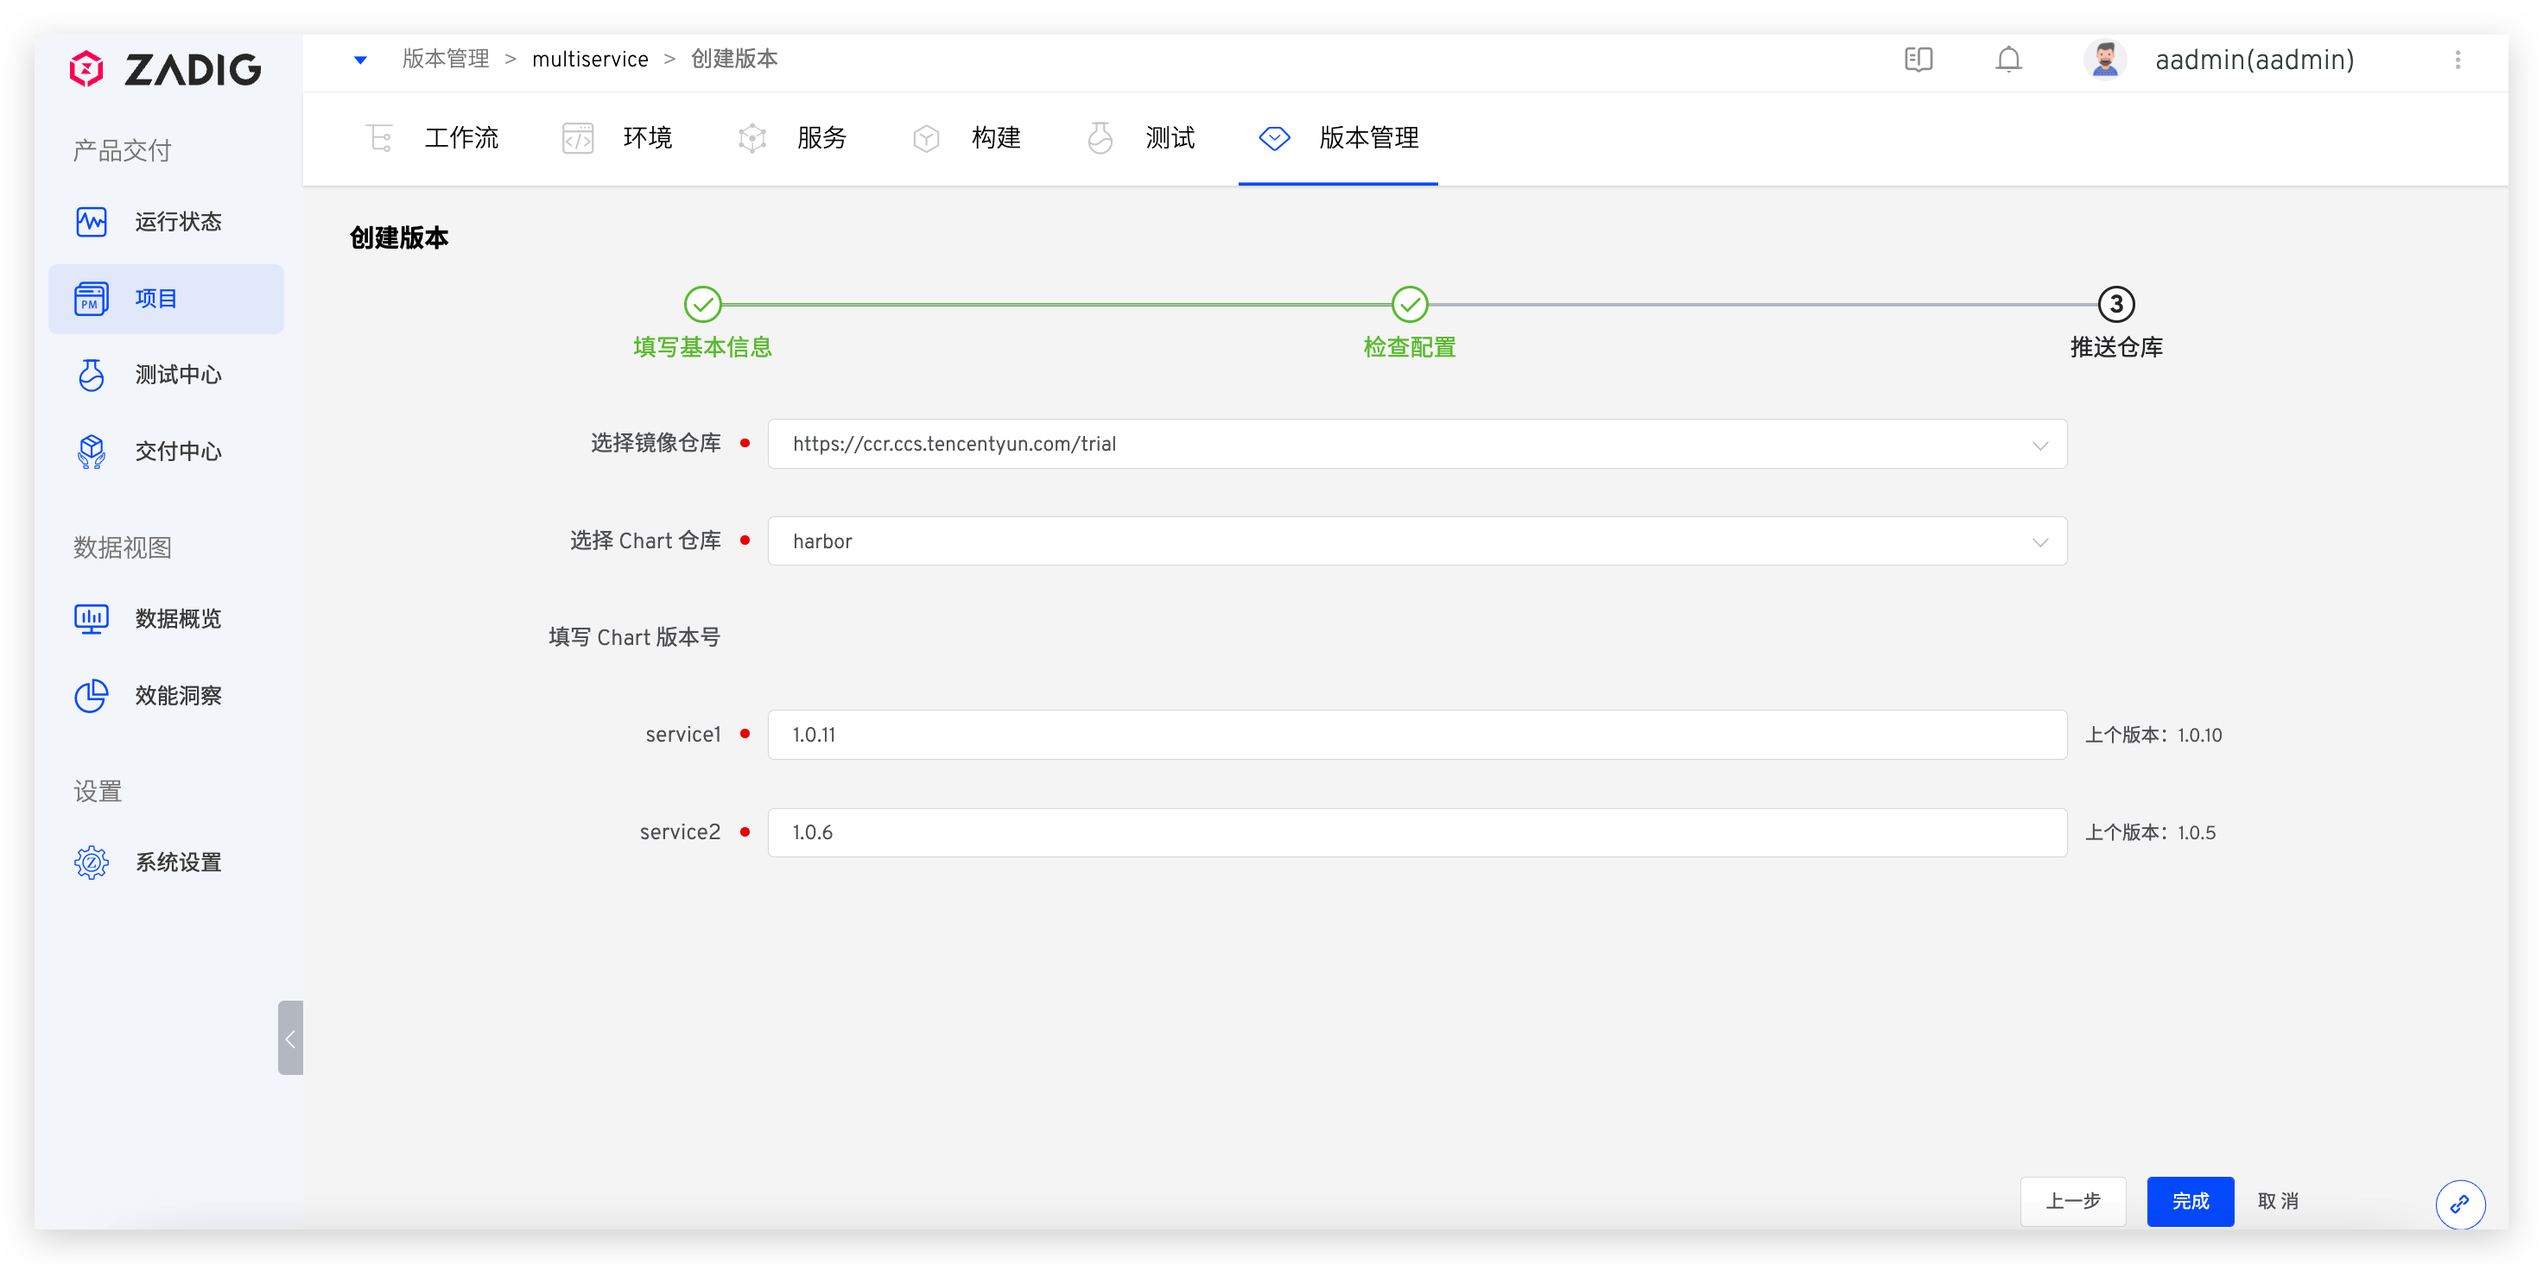
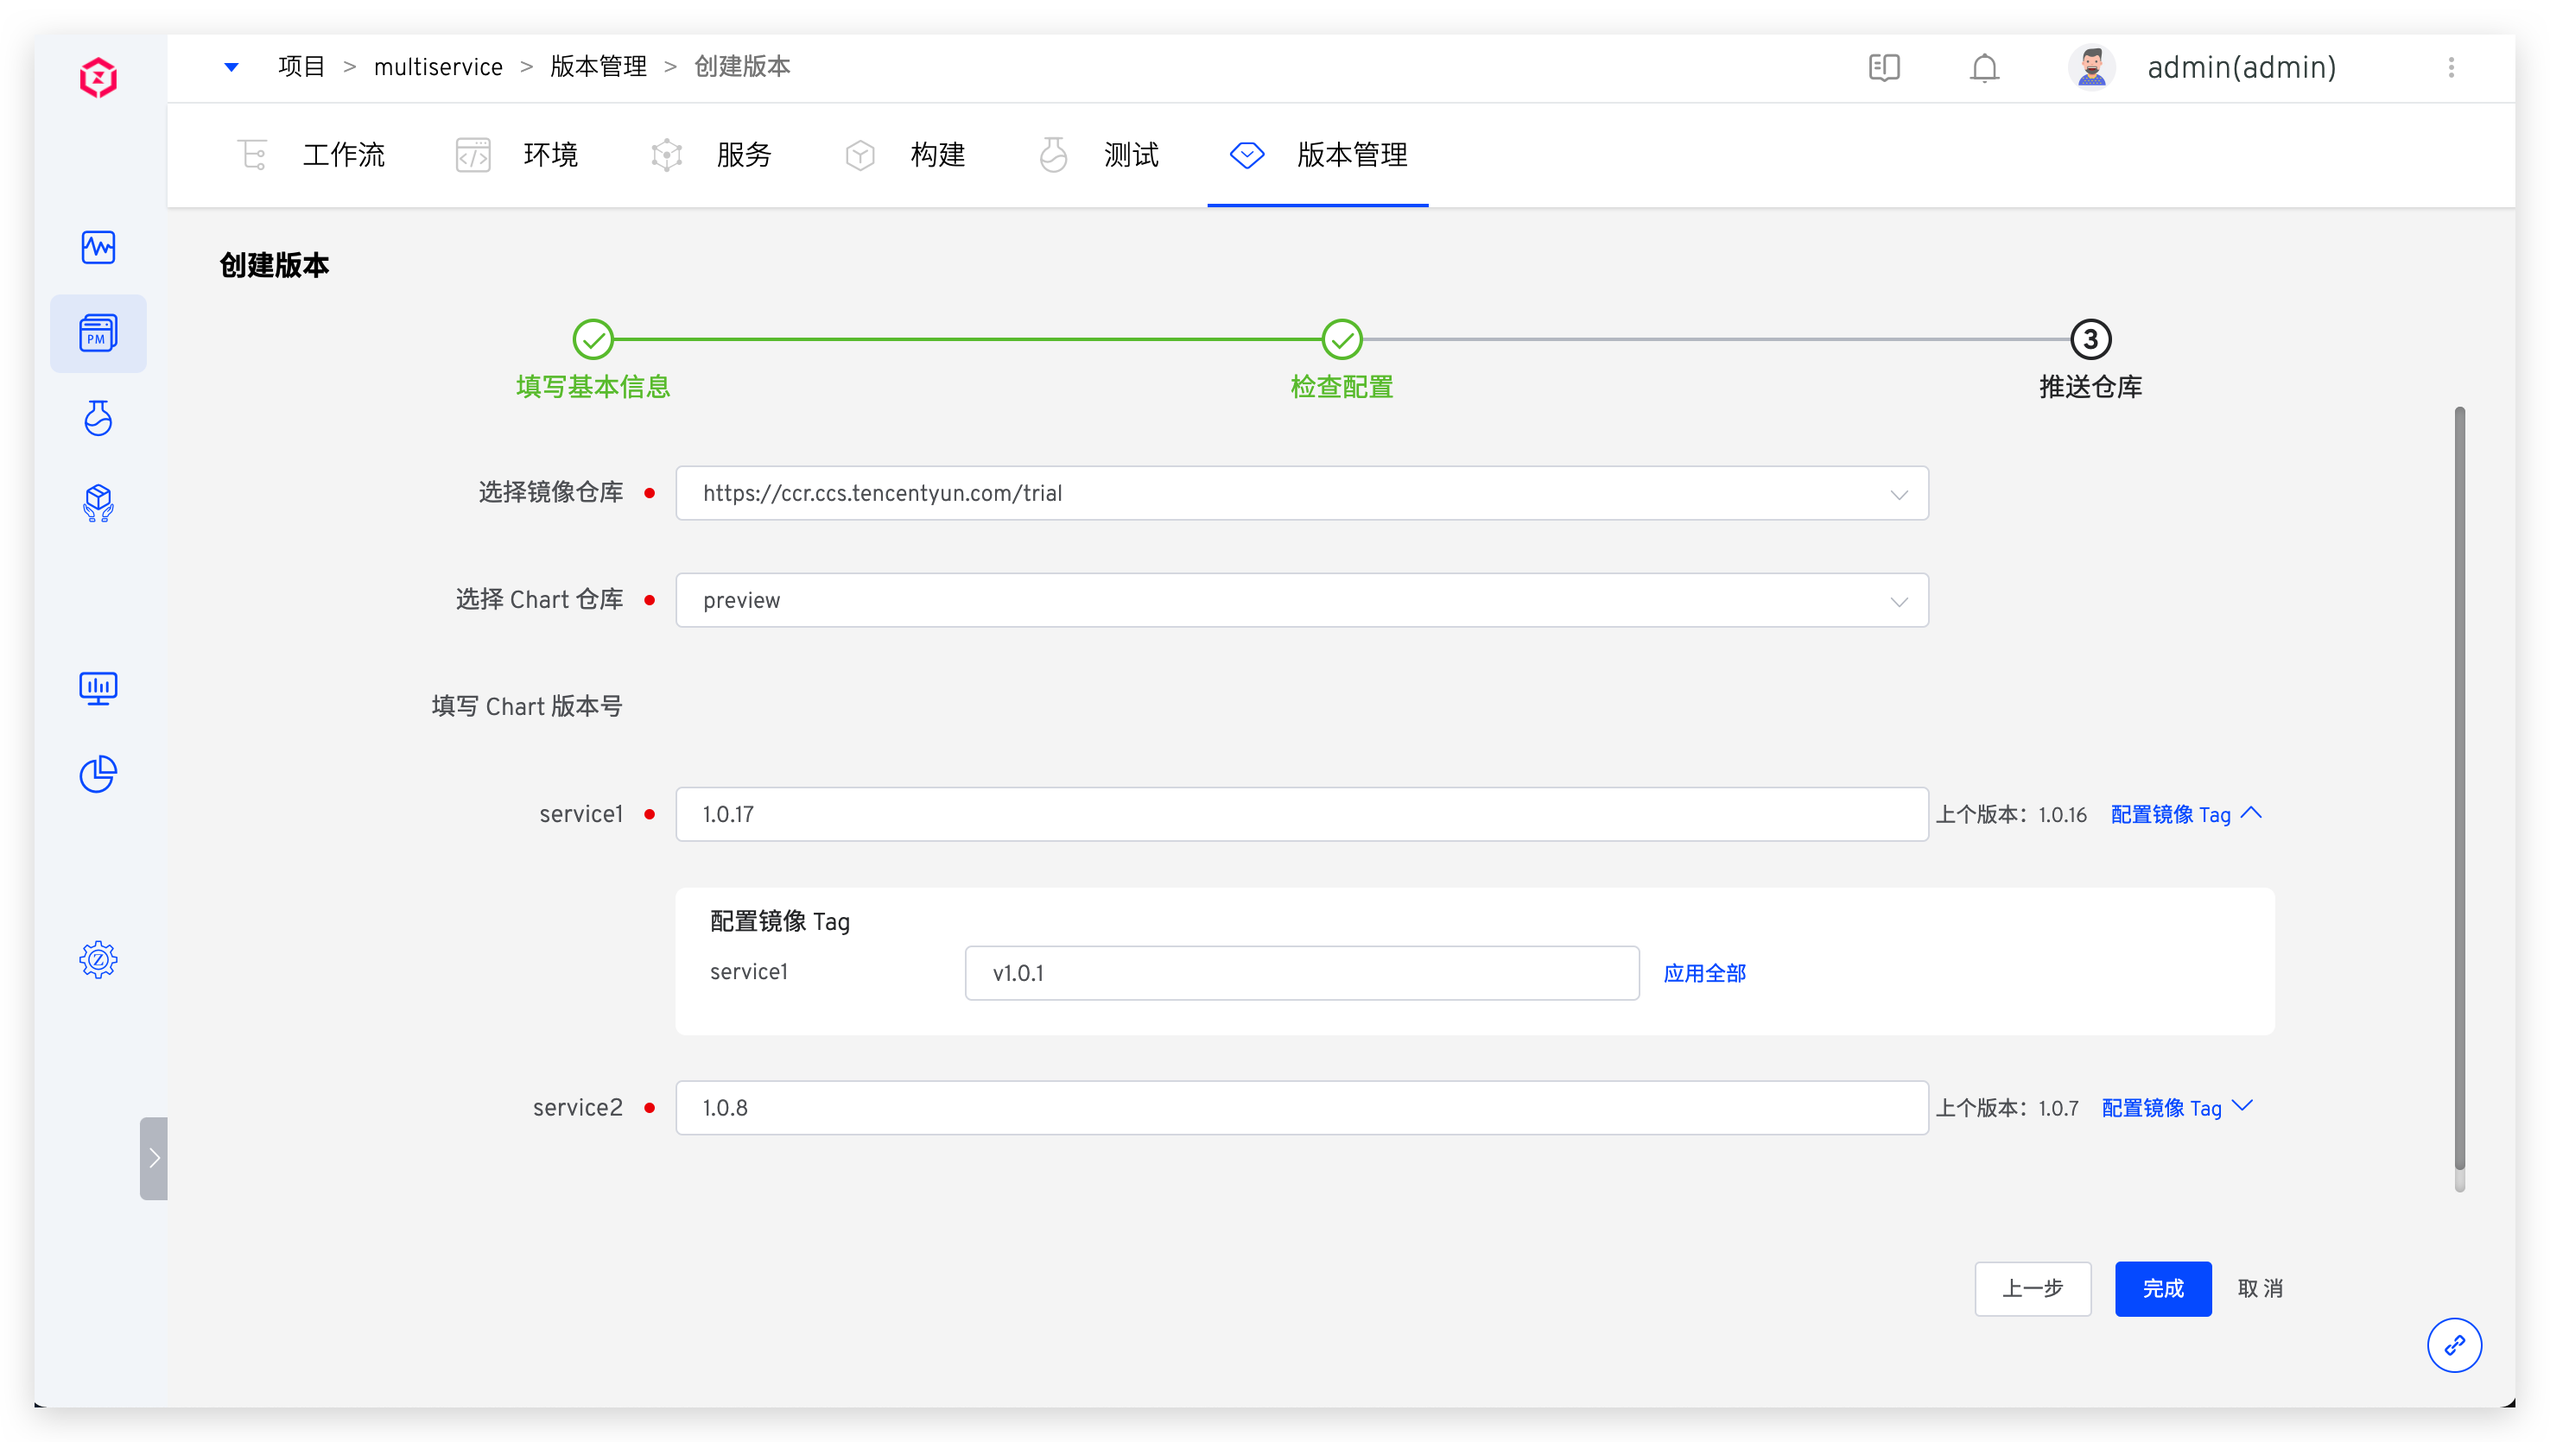
define image tag for helm chart vservice ersion

diff --git a/dev/04.项目/07.version.md b/dev/04.项目/07.version.md
@@ -57,11 +57,10 @@ permalink: /dev/project/version/
 
 ![版本交付](./_images/version_delivery_helm_3_1.png)
 
-- 第三步选择交付物推送的仓库。
+- 第三步选择交付物推送的仓库，并按需填写 Chart 版本号，配置镜像 Tag。
+> Helm 仓库需事先集成，具体配置参考 [Helm 仓库](/dev/settings/helm/)。<br>在配置镜像 Tag 时，若一个 Chart 中包括多个[服务组件](/dev/quick-start/concepts/#服务组件)，可使用`应用全部`来快速设置所有服务组件的镜像 Tag。
 
 ![版本交付](./_images/version_delivery_helm_4.png)
-
-> Helm 仓库需事先集成，具体配置参考 [Helm 仓库](/dev/settings/helm/)
 
 - 点击完成后，所选的服务配置（Chart）和镜像将被推送到对应仓库。
 
